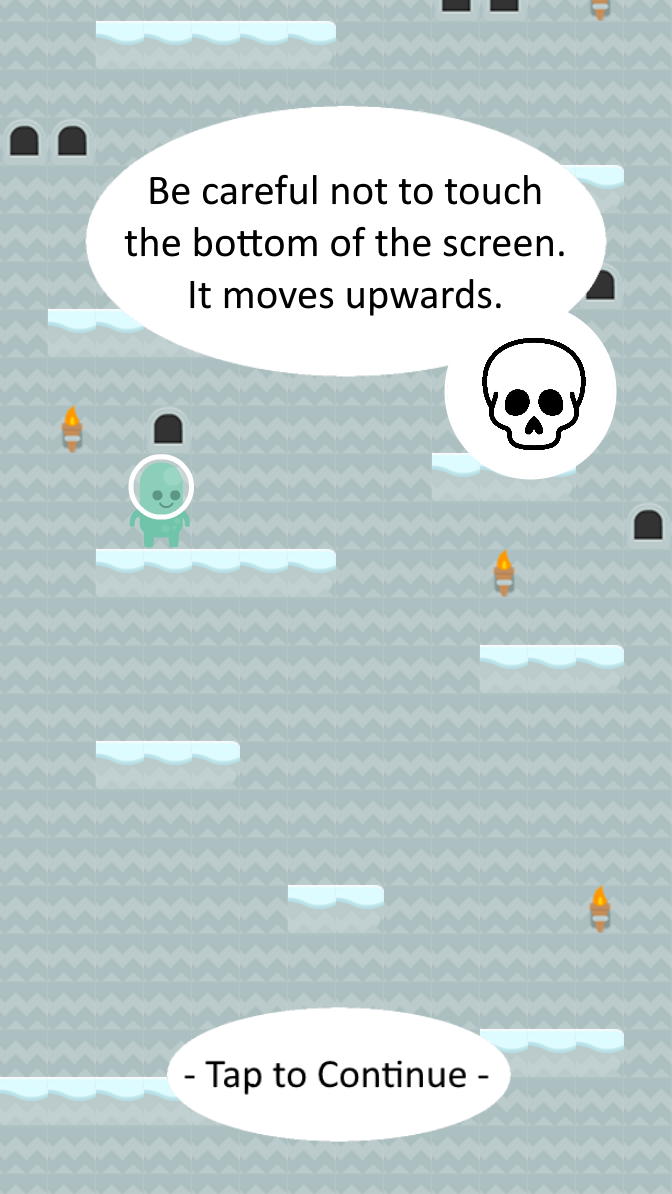
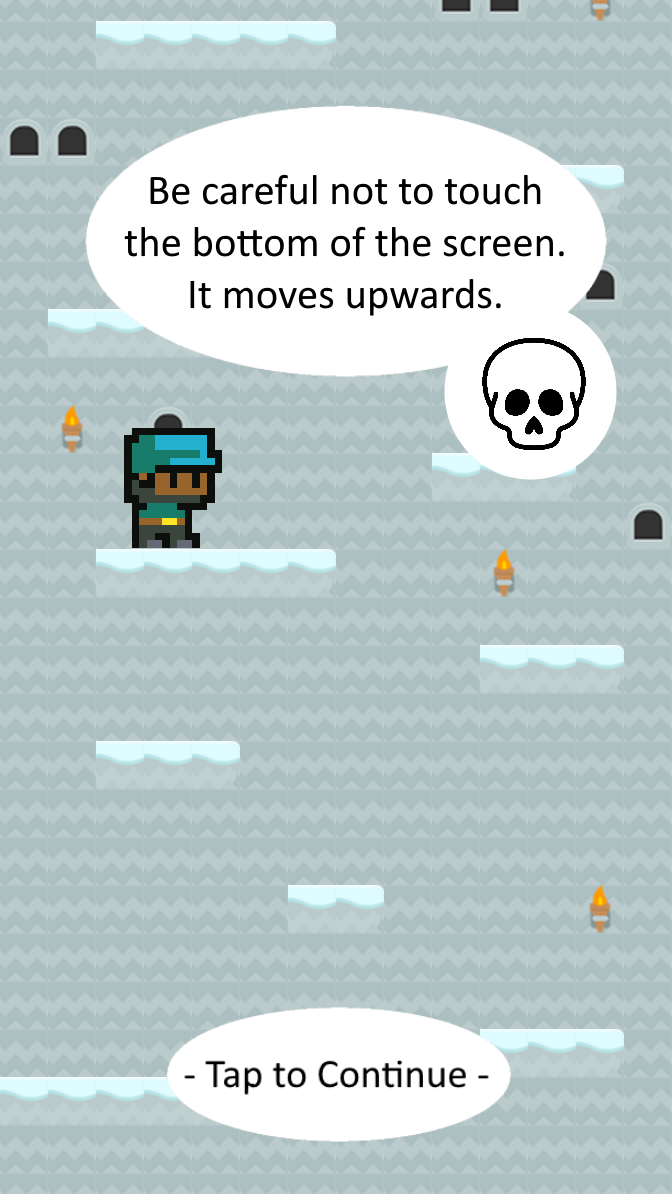
Audio settings and tutorial tweeks
Audio controls are on menu page. Tutorial has been updated with new characters.

Changed region(s): [[0.1875, 0.3409, 0.3438, 0.4648]]

diff --git a/app/core/src/com/icy/game/Views/MenuScreen.java b/app/core/src/com/icy/game/Views/MenuScreen.java
@@ -2,14 +2,20 @@ package com.icy.game.Views;
 
 import com.badlogic.gdx.Gdx;
 import com.badlogic.gdx.Screen;
+import com.badlogic.gdx.graphics.Color;
 import com.badlogic.gdx.graphics.GL20;
 import com.badlogic.gdx.graphics.Texture;
+import com.badlogic.gdx.graphics.g2d.BitmapFont;
 import com.badlogic.gdx.scenes.scene2d.InputEvent;
 import com.badlogic.gdx.scenes.scene2d.InputListener;
 import com.badlogic.gdx.scenes.scene2d.Stage;
 import com.badlogic.gdx.scenes.scene2d.ui.Image;
+import com.badlogic.gdx.scenes.scene2d.ui.Label;
 import com.badlogic.gdx.scenes.scene2d.ui.Table;
+import com.icy.game.Controller.SoundController;
 import com.icy.game.IcyGame;
+
+import java.awt.Font;
 
 import static java.lang.Math.round;
 
@@ -18,21 +24,21 @@ public class MenuScreen implements Screen {
     private Stage stage;
     private Texture background;
     private int move;
-
     public MenuScreen() {
         stage = new Stage();
         Gdx.input.setInputProcessor(stage);
         background = new Texture("Backgrounds/menu_background.png");
         move = 0;
+        BitmapFont font = new BitmapFont();
+        font.getData().setScale(4);
 
         Image logo = new Image(new Texture("Logos/2ICYBOIIS_logo_pixelated.png"));
         Image joinBtn = new Image(new Texture("Buttons/JOIN.png"));
         Image createBtn = new Image(new Texture("Buttons/CREATE.png"));
-        Image settingsBtn = new Image(new Texture("Buttons/SETTINGS.png"));
         Image helpBtn = new Image(new Texture("Buttons/HELP.png"));
 
         //Buttons are easily added to this array
-        Image[] buttons = {joinBtn, createBtn, helpBtn, settingsBtn};
+        Image[] buttons = {joinBtn, createBtn, helpBtn};
 
         for (int i = 0; i < buttons.length; i++) {
             final int j = i;
@@ -51,10 +57,6 @@ public class MenuScreen implements Screen {
                         System.out.println("Help button pressed");
                         IcyGame.getInstance().setScreen(new TutorialScreen());
                         dispose();
-                    } else if (j == 3) {
-                        System.out.println("Settings button pressed");
-                        IcyGame.getInstance().setScreen(new SettingsScreen());
-                        dispose();
                     }
                     return false;
                 }
@@ -63,6 +65,29 @@ public class MenuScreen implements Screen {
 
         int width = Gdx.graphics.getWidth();
         int height = Gdx.graphics.getHeight();
+
+        Image audioOn = new Image(new Texture("Buttons/audio_on.png"));
+        audioOn.addListener(new InputListener() {
+            @Override
+            public boolean touchDown(InputEvent event, float x, float y, int pointer, int button) {
+                System.out.println("Audio on");
+                IcyGame.VOLUME = 1.0f;
+                System.out.println(IcyGame.VOLUME);
+                return true;
+            }
+        });
+        Image audioOff = new Image(new Texture("Buttons/audio_off.png"));
+        audioOff.addListener(new InputListener() {
+            @Override
+            public boolean touchDown(InputEvent event, float x, float y, int pointer, int button) {
+                System.out.println("Audio off");
+                IcyGame.VOLUME = 0;
+                SoundController.getInstance().stopMusic("music");
+                System.out.println(IcyGame.VOLUME);
+                return true;
+            }
+        });
+
 
         Table table = new Table();
         table.center();
@@ -73,9 +98,16 @@ public class MenuScreen implements Screen {
         table.row();
         table.add(createBtn).expandX().size(width/2, height/8);
         table.row();
-        table.add(helpBtn).expandX().size(width/3, height/8).padBottom(10);
+        table.add(helpBtn).expandX().size(width/3, height/8).padBottom(30);
         table.row();
-        table.add(settingsBtn).expandX().size(width/6, height/8);
+
+        Table subTable = new Table();
+        subTable.add(audioOn).padRight(width/24).padLeft(width/3).padBottom(30).size(IcyGame.WIDTH / 8, IcyGame.HEIGHT / 12);
+        subTable.add(audioOff).padLeft(width/24).padRight(width/3).padBottom(30).size(IcyGame.WIDTH / 8, IcyGame.HEIGHT / 12);
+        subTable.pack();
+
+        table.add(subTable);
+        table.row();
         table.pack();
         stage.addActor(table);
     }
